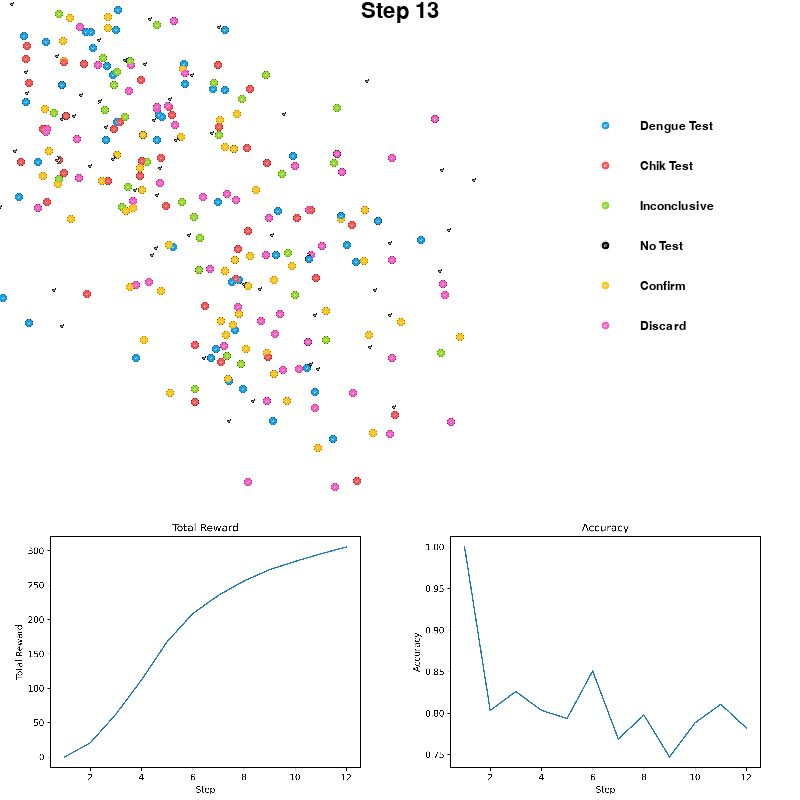
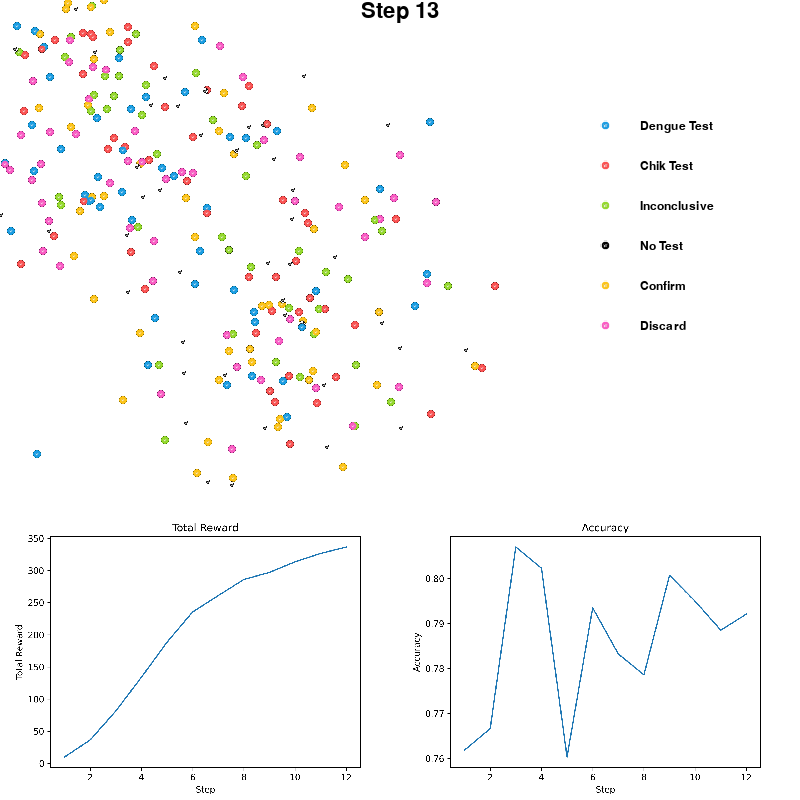
editing tianshou

diff --git a/dengue_envs/envs/dengue_diagnostics.py b/dengue_envs/envs/dengue_diagnostics.py
@@ -413,14 +413,11 @@ class DengueDiagnosticsEnv(gym.Env):
 
         observation = self._get_obs()
 
-        space_shape = self.observation_space.spaces["clinical_diagnostic"].shape
-
         info = self._get_info()
         self.rewards=[]
         self.accuracy = []
 
         for key in observation.keys():
-            # turn each tuple into a space.Sequence
             observation[key] = None
 
         self.total_reward = 0

diff --git a/dengue_envs/tests/stable_bases.py b/dengue_envs/tests/stable_bases.py
@@ -1,6 +1,13 @@
 from dengue_envs.envs.dengue_diagnostics import DengueDiagnosticsEnv
 from stable_baselines3.common.env_checker import check_env
+import gymnasium as gym
+from stable_baselines3 import DQN
 
 env = DengueDiagnosticsEnv()
+print("Observation Space:", env.observation_space)
+print("Action Space:", env.action_space)
 
 check_env(env)
+
+
+
